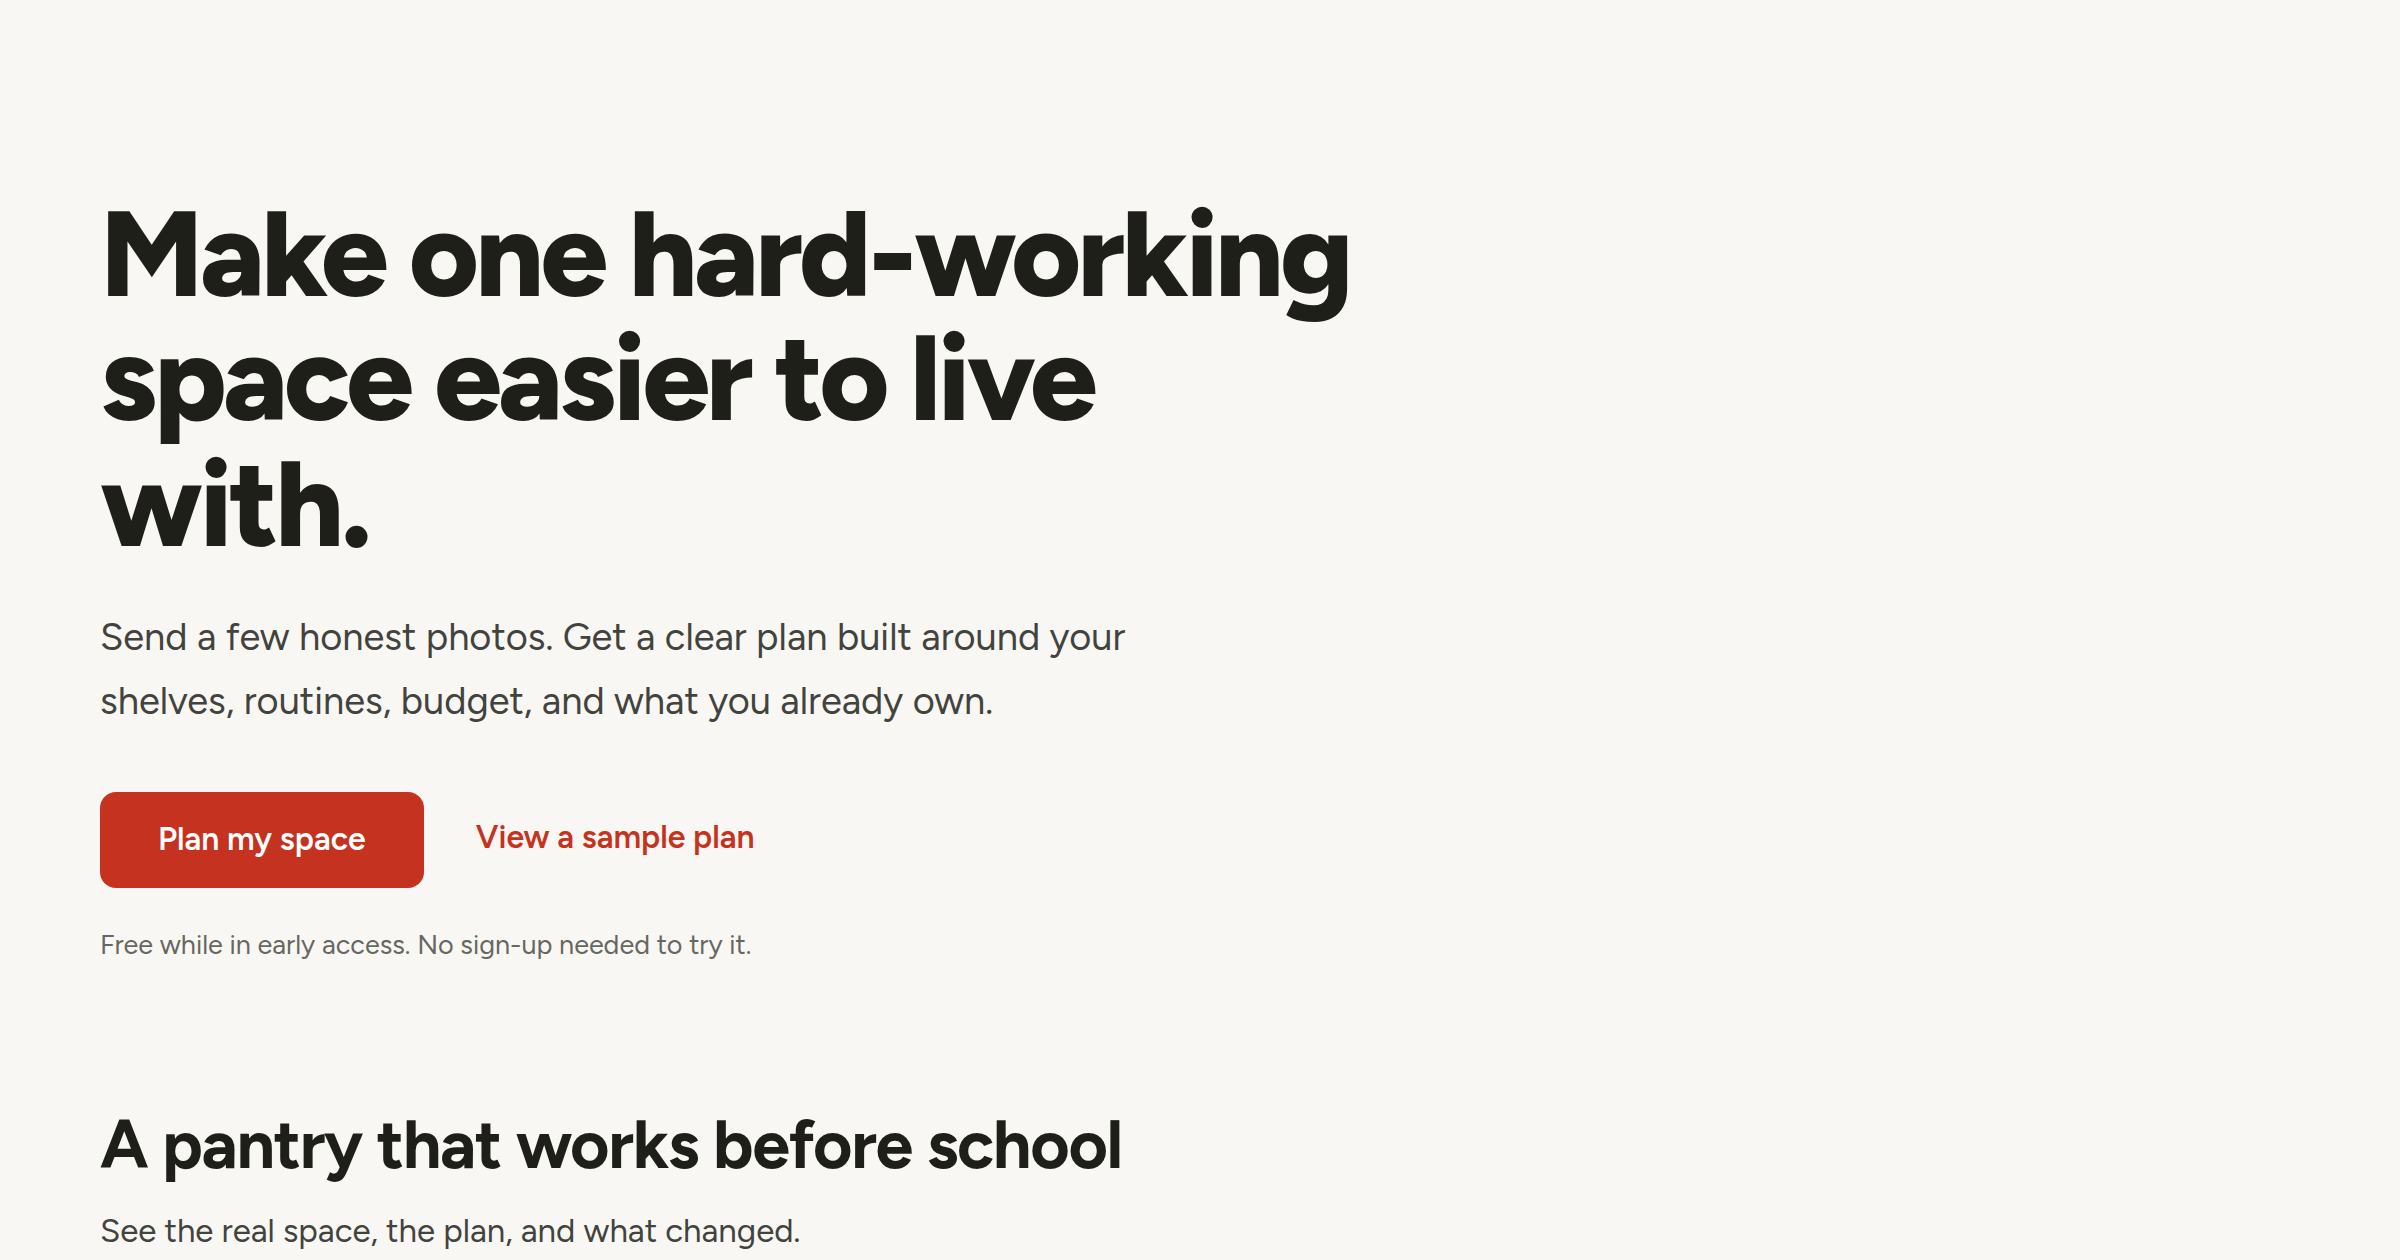
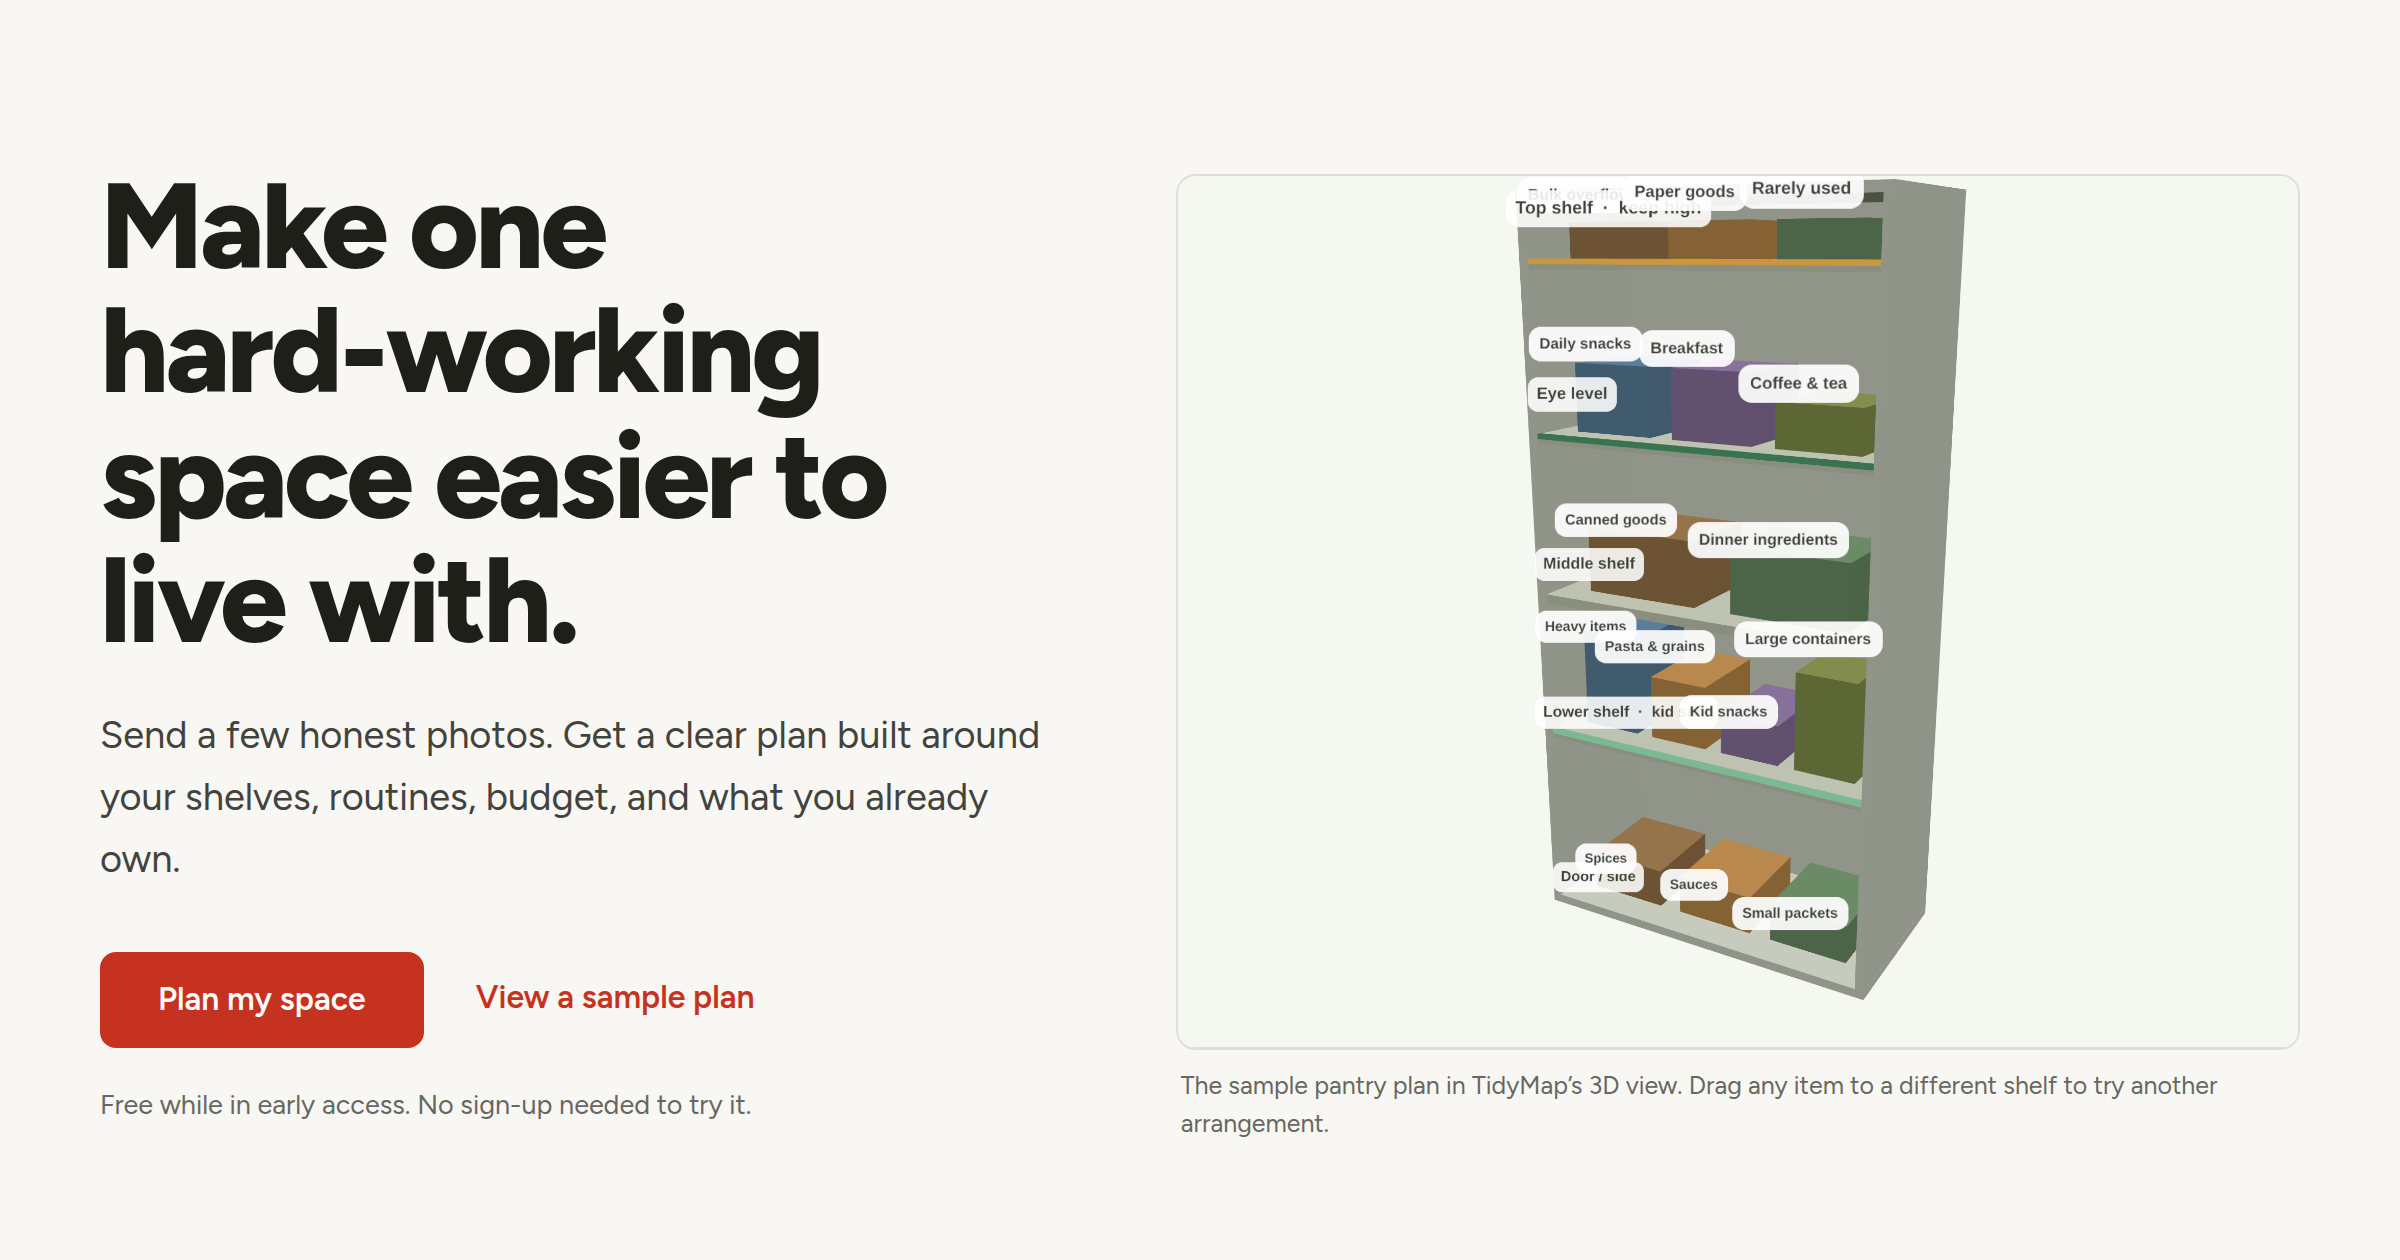
Fill the landing's empty slots with real product visuals
The page read as too bare while the real photography is pending. The photo
slots now stand in with honest product output instead of collapsing to
text:

- Hero: the sample pantry plan in the 3D viewer (assets/product/hero-3d.png),
  with a caption that says exactly what it is. The slot still tries
  assets/photos/hero-pantry.jpg first, so dropping in the real photograph
  upgrades the hero automatically and hides the stand-in caption.
- How it works: the real "Who uses this space?" wizard step, with example
  selections, shown beside the three method steps.

The illustrated-rectangles "before" panel stays off the landing page — it
is the fake-mockup pattern the redesign removed. OG image regenerated with
the new hero. Anti-slop test now also asserts the two new screenshots
exist. All 22 tests pass.

Claude-Session: https://claude.ai/code/session_01ENymwNtJ5JCryCqbVy7BhD

diff --git a/index.html b/index.html
@@ -101,7 +101,10 @@
       <p class="hero-fine">Free while in early access. No sign-up needed to try it.</p>
     </div>
     <figure class="hero-photo">
-      <img src="assets/photos/hero-pantry.jpg" alt="A family pantry mid-week: cereal boxes, labeled bins, and water bottles on ordinary white shelves" onerror="this.closest('.home-hero').classList.add('no-photo')">
+      <!-- Real photography takes this slot automatically once the file exists
+           (docs/asset-plan.md). Until then, the product's own 3D view stands in. -->
+      <img src="assets/photos/hero-pantry.jpg" alt="A family pantry mid-week: cereal boxes, labeled bins, and water bottles on ordinary white shelves" onerror="if(this.dataset.fb){this.closest('.home-hero').classList.add('no-photo')}else{this.dataset.fb=1;this.closest('.home-hero').classList.add('alt-visual');this.alt='The sample pantry plan in the TidyMap 3D view: every zone labeled, shelf by shelf';this.src='assets/product/hero-3d.png'}">
+      <figcaption class="cap-fallback">The sample pantry plan in TidyMap&rsquo;s 3D view. Drag any item to a different shelf to try another arrangement.</figcaption>
     </figure>
   </div>
 
@@ -169,19 +172,25 @@
   <!-- Method -->
   <div class="home-sec" id="how">
     <h2>How it works</h2>
-    <div class="how-list">
-      <div class="how-step">
-        <h3><span class="n">1</span>Share the space as it is</h3>
-        <p>Take a few photos, exactly as it looks today. No tidying up first, and nothing to measure unless you want sharper product suggestions.</p>
+    <div class="how-grid">
+      <div class="how-list">
+        <div class="how-step">
+          <h3><span class="n">1</span>Share the space as it is</h3>
+          <p>Take a few photos, exactly as it looks today. No tidying up first, and nothing to measure unless you want sharper product suggestions.</p>
+        </div>
+        <div class="how-step">
+          <h3><span class="n">2</span>Review a plan made for your household</h3>
+          <p>TidyMap reads what&rsquo;s on your shelves, then drafts where everything should live around your routines, your kids and pets, and your budget. You confirm what it found before the plan is built.</p>
+        </div>
+        <div class="how-step">
+          <h3><span class="n">3</span>Work through it one manageable step at a time</h3>
+          <p>Each step is short and timed. Pause for school pickup, come back after bedtime, and the plan holds together.</p>
+        </div>
       </div>
-      <div class="how-step">
-        <h3><span class="n">2</span>Review a plan made for your household</h3>
-        <p>TidyMap reads what&rsquo;s on your shelves, then drafts where everything should live around your routines, your kids and pets, and your budget. You confirm what it found before the plan is built.</p>
-      </div>
-      <div class="how-step">
-        <h3><span class="n">3</span>Work through it one manageable step at a time</h3>
-        <p>Each step is short and timed. Pause for school pickup, come back after bedtime, and the plan holds together.</p>
-      </div>
+      <figure class="how-shot">
+        <img src="assets/product/wizard-household.png" alt="Screenshot of the TidyMap planner asking who uses the space: kids and their ages, pets, and reaching or mobility needs" loading="lazy">
+        <figcaption>The planner asks who uses the space before it places anything.</figcaption>
+      </figure>
     </div>
   </div>
 

diff --git a/css/landing.css b/css/landing.css
@@ -44,7 +44,11 @@
   border-radius:var(--radius);border:1px solid var(--line);
 }
 .hero-photo figcaption{font-size:12.5px;color:var(--ink-3);padding:8px 2px 0}
-/* until the hero photograph exists, the copy stands alone */
+/* while real photography is pending, the product's 3D view stands in */
+.hero-photo .cap-fallback{display:none}
+.home-hero.alt-visual .cap-fallback{display:block}
+.home-hero.alt-visual .hero-photo img{aspect-ratio:auto;background:#fff}
+/* if the stand-in is missing too, the copy stands alone */
 .home-hero.no-photo{grid-template-columns:1fr;padding-bottom:0}
 .home-hero.no-photo .hero-photo{display:none}
 .home-hero.no-photo h1{max-width:16ch}
@@ -90,6 +94,14 @@
 @media(min-width:880px){.product-shot figcaption{position:sticky;top:calc(var(--appbar-h,57px) + 20px)}}
 
 /* ---------- Method ---------- */
+.how-grid{display:grid;gap:32px;margin-top:4px;align-items:start}
+@media(min-width:920px){.how-grid{grid-template-columns:minmax(0,1fr) 350px;gap:56px}}
+.how-shot{margin:0;min-width:0}
+.how-shot img{
+  width:100%;display:block;border-radius:var(--radius);
+  border:1px solid var(--line-2);box-shadow:var(--shadow);
+}
+.how-shot figcaption{font-size:12.5px;color:var(--ink-3);padding:8px 2px 0}
 .how-list{margin-top:26px;display:grid;gap:0}
 .how-step{
   display:grid;gap:4px 28px;grid-template-columns:1fr;

diff --git a/docs/asset-plan.md b/docs/asset-plan.md
@@ -6,9 +6,11 @@ must be shot by us — stock photography would defeat the point.
 
 ## Photo slots on the landing page
 
-The page degrades gracefully while these files are missing: if an image 404s,
-its `onerror` handler collapses the slot and the layout reflows. Drop the
-files in and the sections light up — no code changes needed.
+The page degrades gracefully while these files are missing. The hero slot
+falls back to a real product visual (`assets/product/hero-3d.png`, the sample
+plan in the 3D view) with its own caption; the story slot collapses and the
+layout reflows. Drop the photo files in and they take over automatically —
+no code changes needed, and the fallback caption hides itself.
 
 | File | Where it appears | What to shoot |
 |---|---|---|
@@ -30,7 +32,10 @@ Guidelines for both:
 
 `assets/product/plan-map.png`, `plan-steps.png`, and `plan-shopping.png` are
 real screenshots of the sample pantry plan, captured from the running app at
-a 920px-wide viewport. To regenerate after a product change:
+a 920px-wide viewport. `hero-3d.png` is the same plan in the 3D viewer
+(the interim hero visual), and `wizard-household.png` is the "Who uses this
+space?" step with example selections, shown beside How it works. To
+regenerate after a product change:
 
 1. Serve the repo root over HTTP.
 2. Load the site, click "View a sample plan".